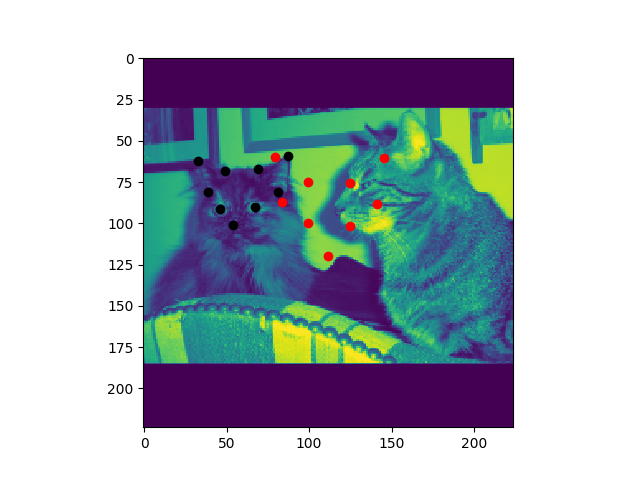
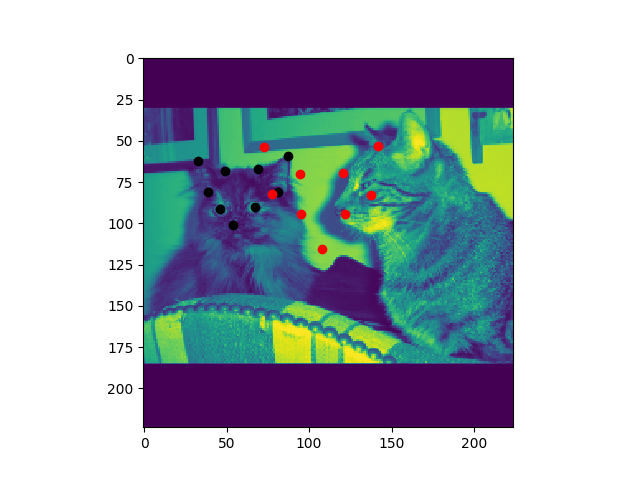
trying again'

diff --git a/model.py b/model.py
@@ -54,7 +54,7 @@ class Model:
     def train_model(self):
         checkpoint = ModelCheckpoint(filepath='weights/checkpoint.hdf5', monitor="val_accuracy", verbose=1, save_best_only=True, mode="max")
         epochs = 10
-        batch_size = 30
+        batch_size = 10
 
         for j in range(epochs):
             print("epoch: ", j)
@@ -97,12 +97,15 @@ class Model:
         # print(acc)
         return acc
 
-    def test(self, test_data):
+    def test(self, test_imgs, test_coords):
         """ Testing routine. """
+        test_imgs = np.expand_dims(test_imgs, axis=-1)
+        test_coords = np.reshape(test_coords, (-1, 18,))
 
         # Run model on test set
         self.model.evaluate(
-            x=test_data,
+            x=test_imgs,
+            y=test_coords,
             verbose=1,
         )
 

diff --git a/main.py b/main.py
@@ -24,6 +24,12 @@ def main():
     model = Model(224, 224)
     model.compile_model()
     model.train_model()
+    
+    test_img_path = "processed_test_imgs/img0.npy"
+    test_coord_path = "processed_test_coords/coord0.npy"
+    test_images = np.load(test_img_path)
+    test_coords = np.load(test_coord_path)
+    model.test(test_images, test_coords)
     for img_index in range(10, 13):
         model.visualize_points(images[img_index], coords[img_index], img_index)
 
